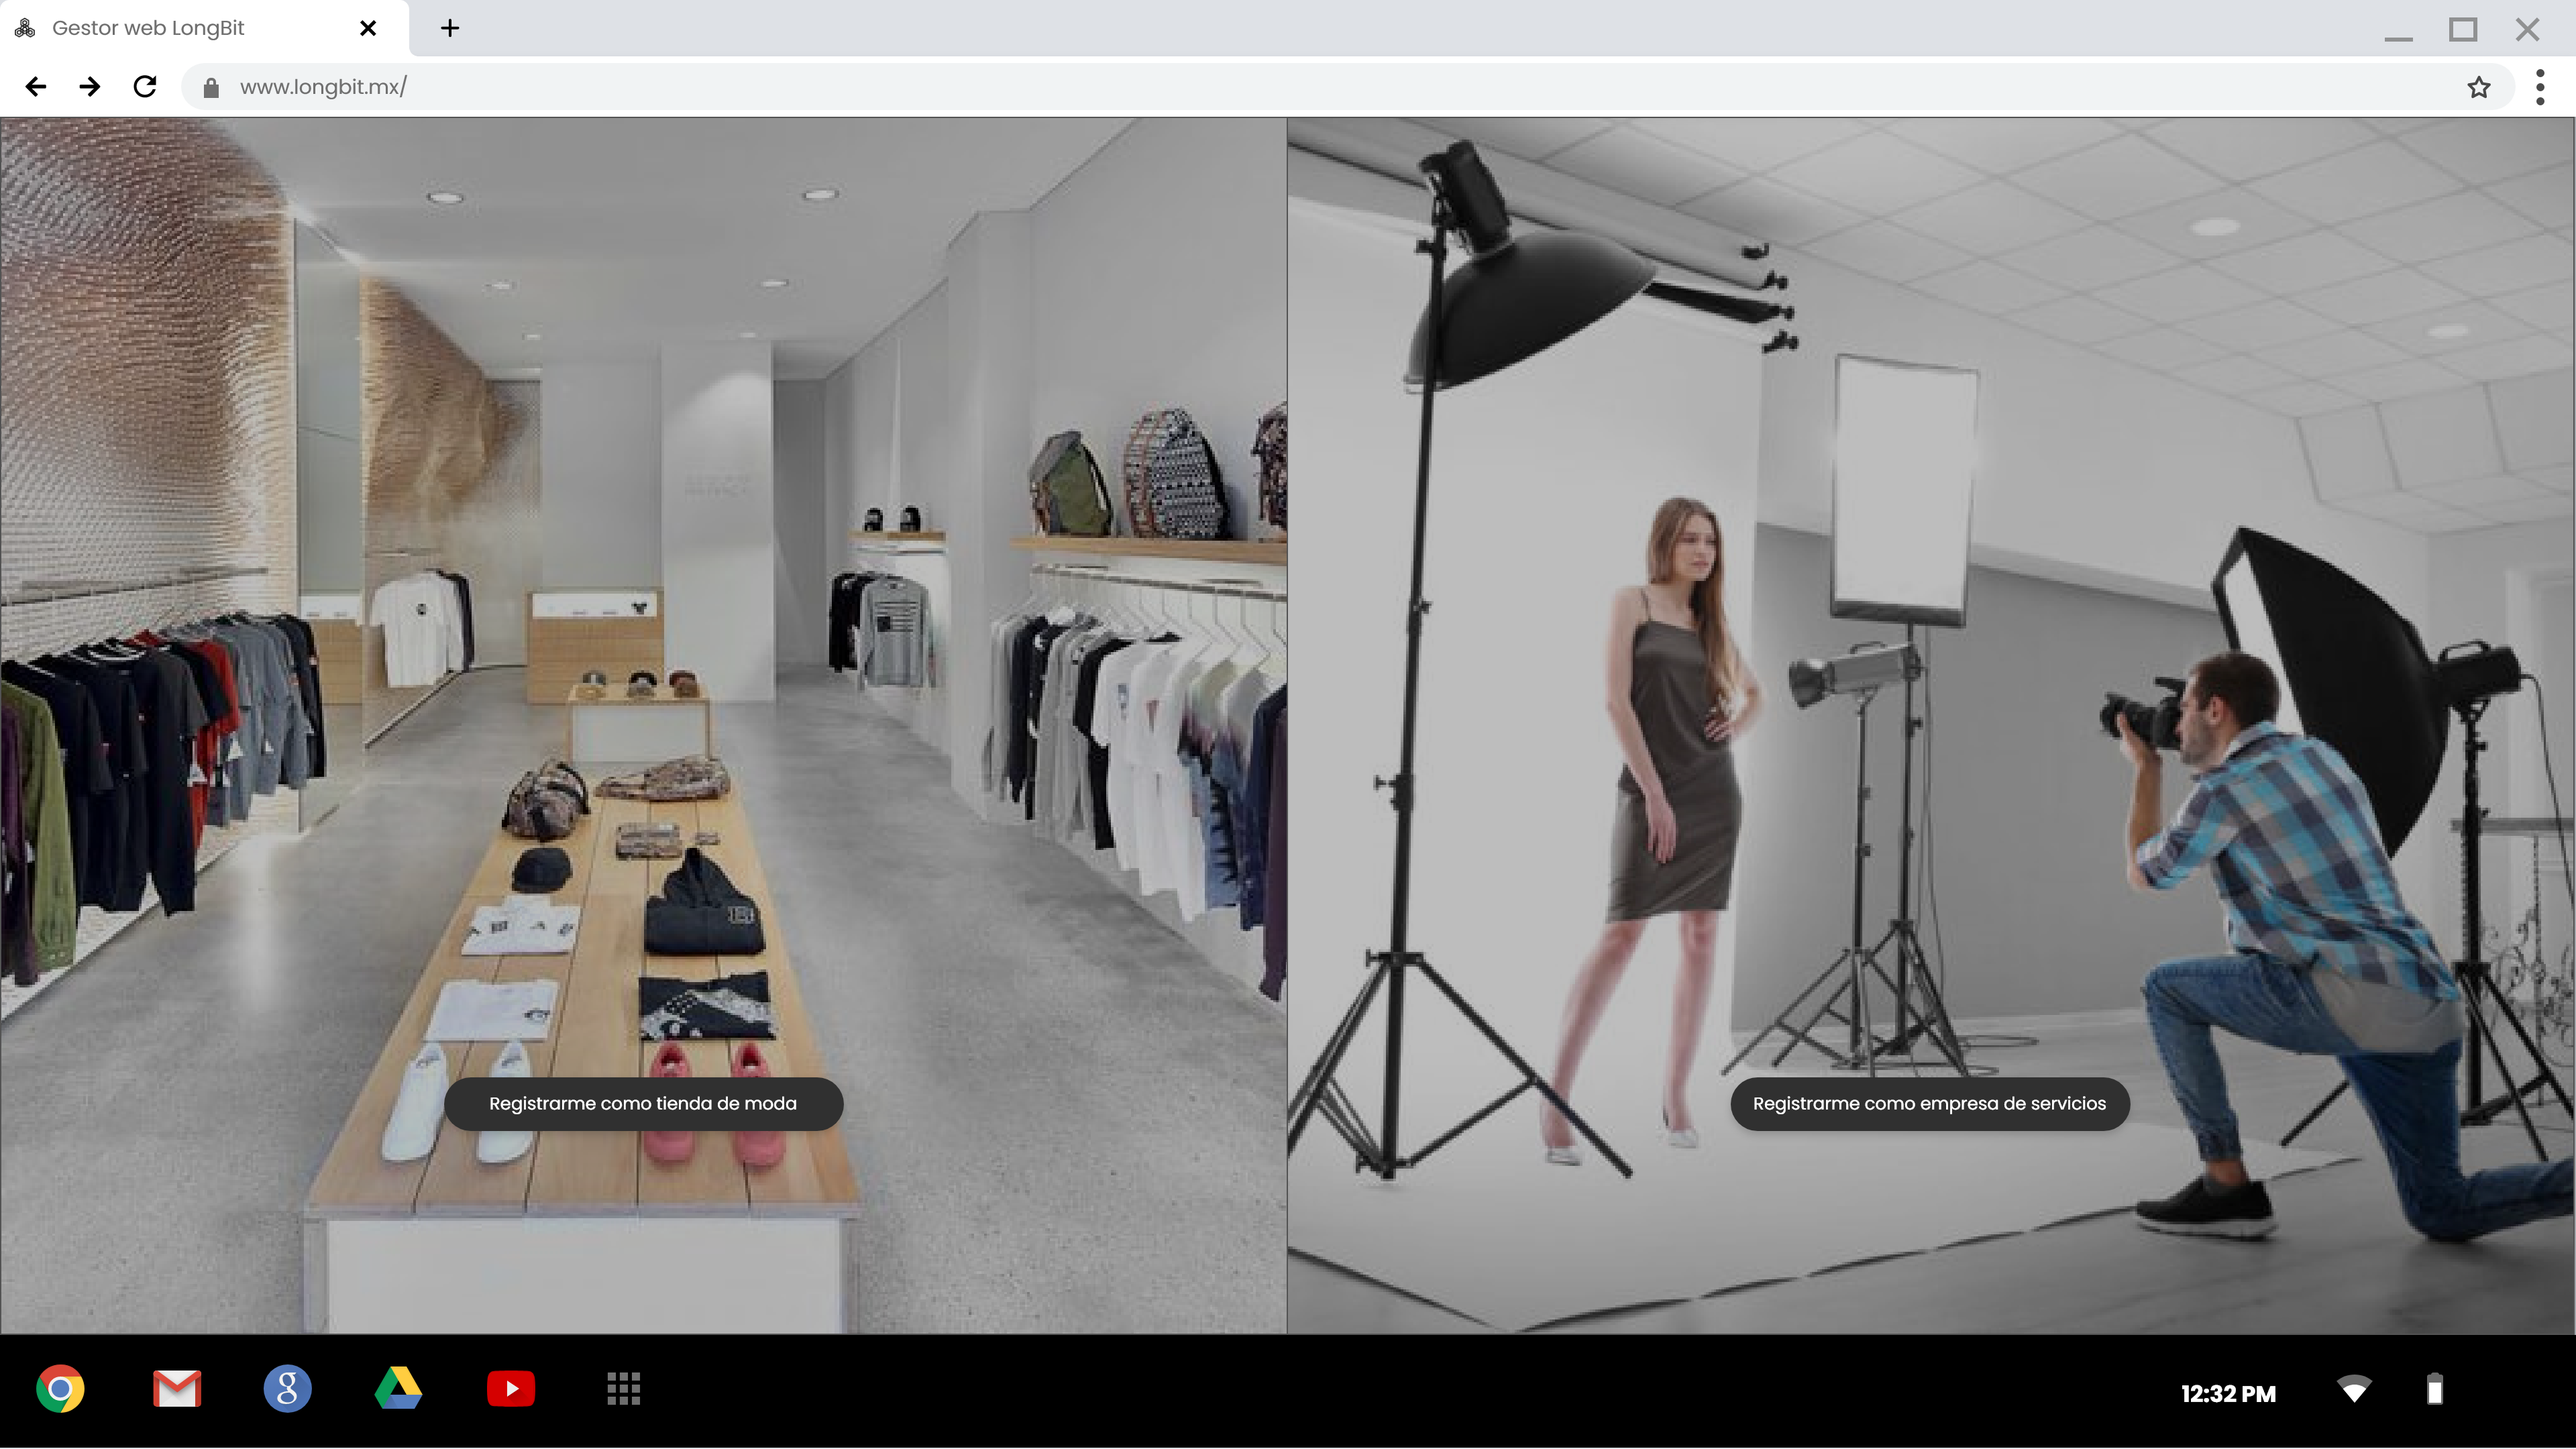
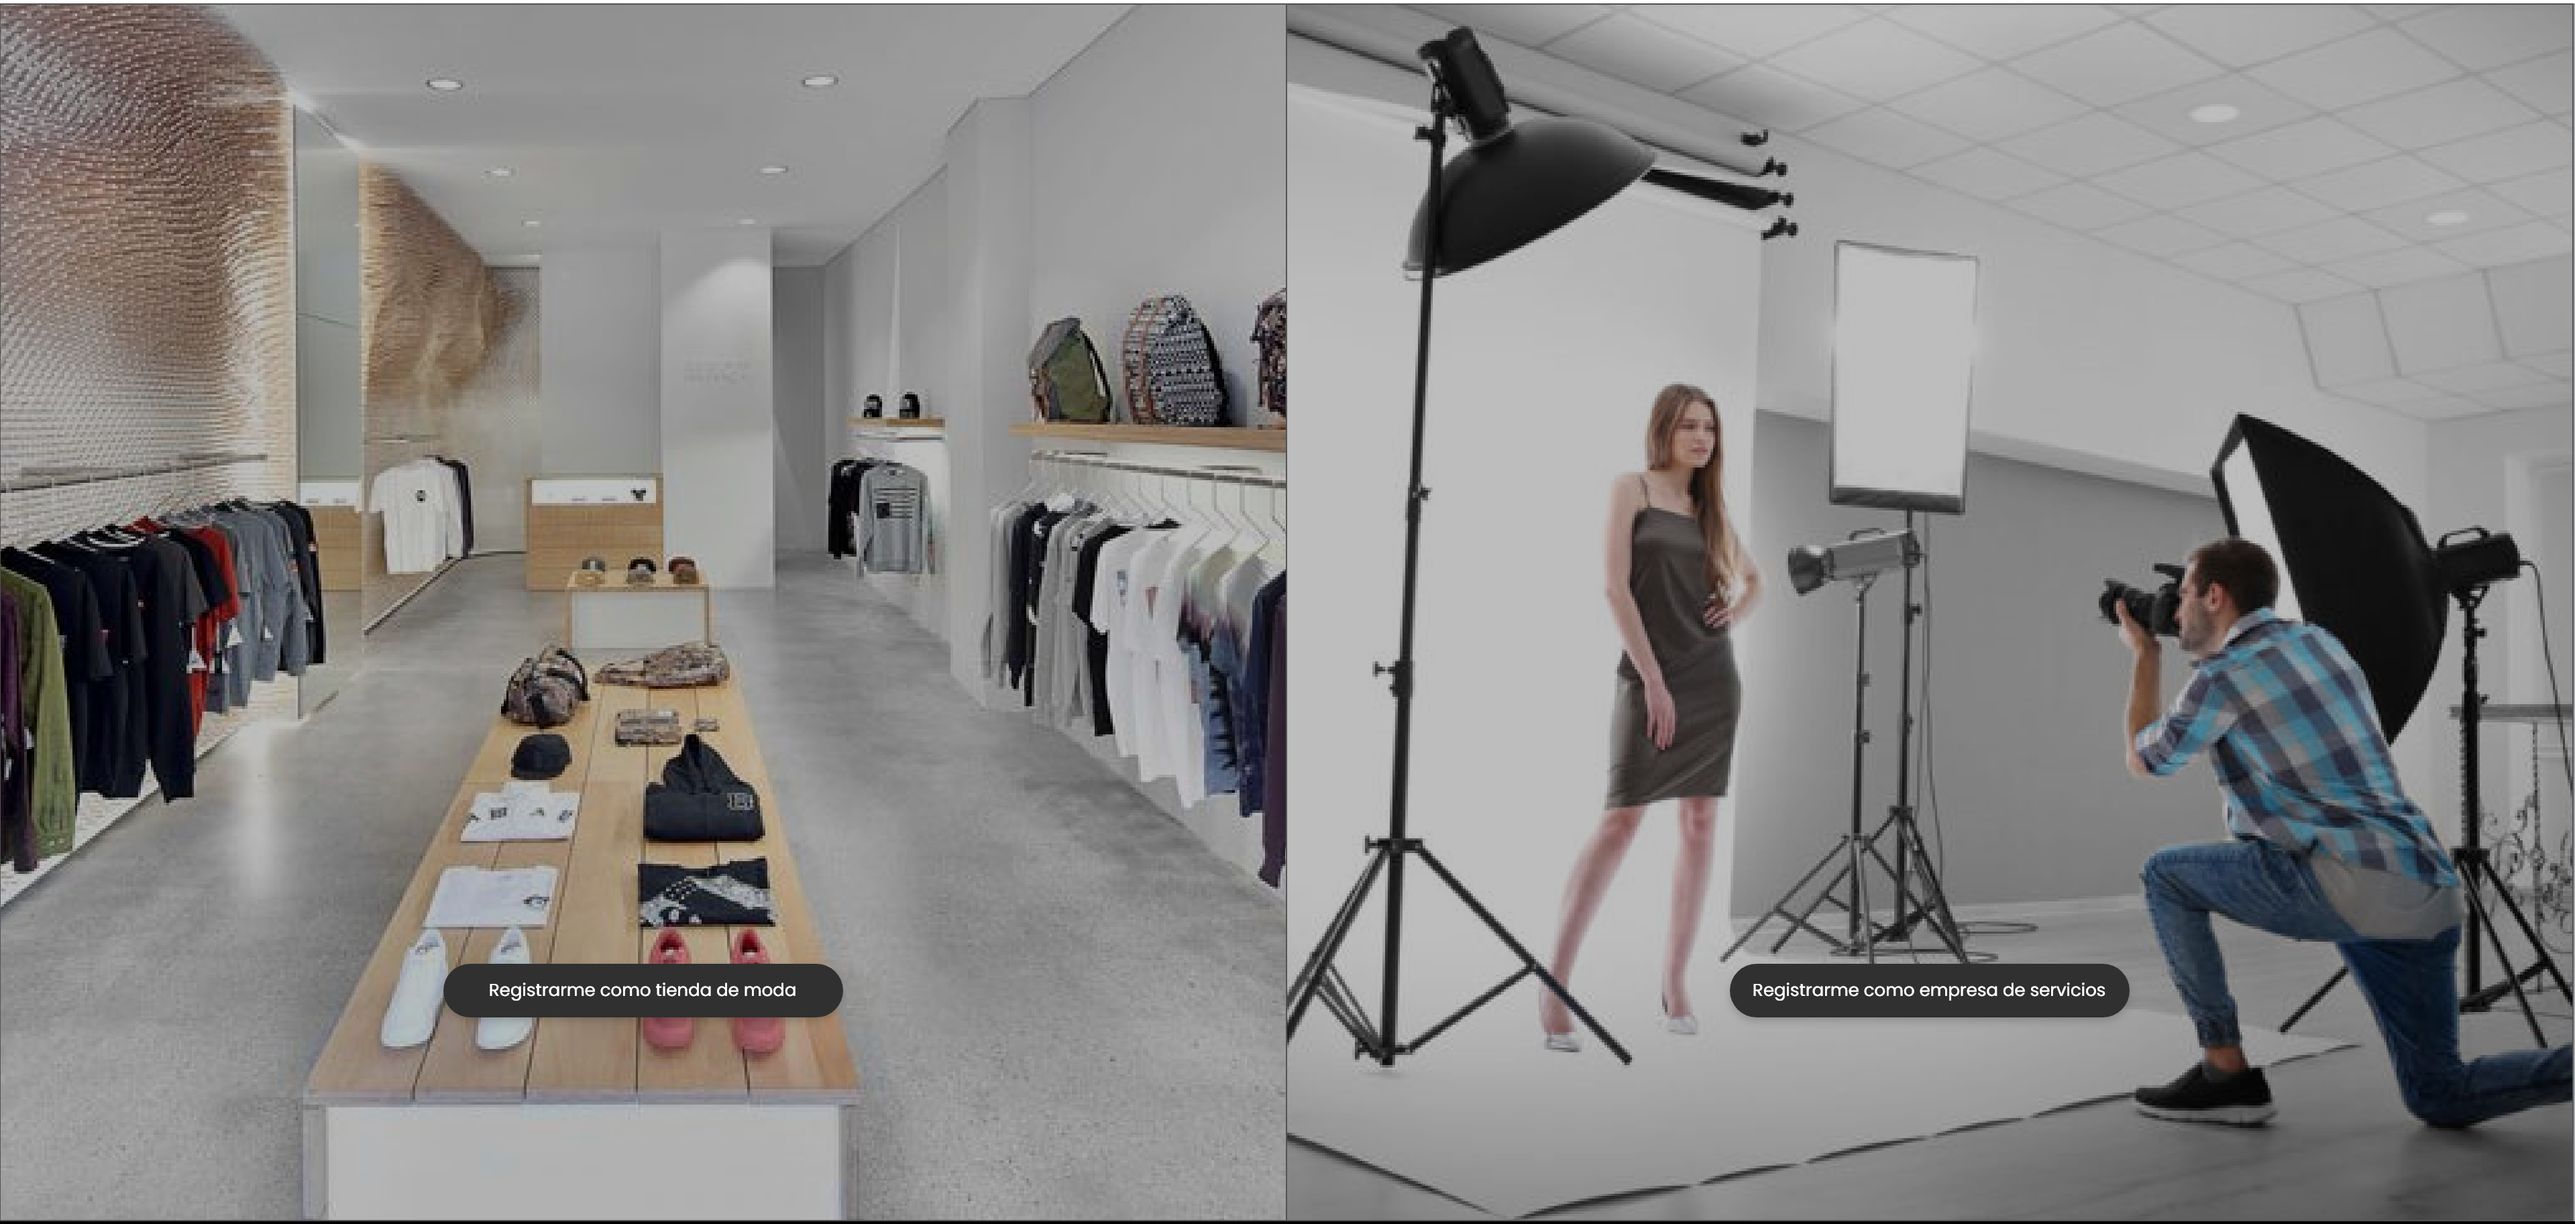
Add files via upload

diff --git a/registro/register.html b/registro/register.html
@@ -1,0 +1,99 @@
+<!DOCTYPE html>
+<html lang="es-MX" dir="ltr">
+    <head>
+        <title>Registro</title>
+        <meta http-equiv="Content-Type" content="text/html; charset=utf-8" />
+		<body>
+
+		<link rel="stylesheet" href="bootstrap/css/bootstrap.min.css" type="text/css" />
+<link rel="stylesheet" href="/registro/css.css">
+        </head>
+<link href="//maxcdn.bootstrapcdn.com/bootstrap/3.3.0/css/bootstrap.min.css" rel="stylesheet" id="bootstrap-css">
+
+<script src="//maxcdn.bootstrapcdn.com/bootstrap/3.3.0/js/bootstrap.min.js"></script>
+<script src="//code.jquery.com/jquery-1.11.1.min.js"></script>
+
+<!------ Include the above in your HEAD tag ---------->
+
+<div class="container">
+	<div class="row">
+		<div class="col-md-6 col-md-offset-3">
+			<div class="panel panel-login">
+				<div class="panel-heading">
+					<div class="row">
+						<div class="col-xs-6">
+							<a href="#" class="active" id="login-form-link"></a>
+						</div>
+						<div class="col-xs-6">
+							<a href="#" id="register-form-link"></a>
+						</div>
+					</div>
+					<hr>
+				</div>					<div class="panel-body">
+						<div class="row">
+							<div class="col-lg-12">
+								<form id="login-form" method="post" role="form" style="display: block;">
+									<div class="form-group">
+										<label for="email">Correo electrónico: </label>
+										<input type="email" class="form-control" id="email" placeholder="ernesto14@longbit.mx">
+									  </div>
+									<div class="form-group">
+										<label for="password">Contraseña </label>
+										<input id="password-field" type="password" class="form-control" name="password" value="" tabindex="2" placeholder="Contraseña">
+										
+										<span toggle="#password-field" class="fa fa-fw fa-eye field-icon toggle-password" ></span>	
+									</div>
+									<div class="form-group">
+										<label for="rpassword">Repetir contraseña</label>
+										<input type="rpassword" name="rpassword" id="rpassword" tabindex="2" class="form-control" placeholder="Repetir contraseña">
+									</div>
+									<div class="form-group text-left">
+										<input type="checkbox" tabindex="3" class="" name="remember" id="remember">
+										<label for="remember">Mantener sesión iniciada</label>
+									</div>
+									<div class="text-center"><a href="" tabindex="5" class="forgot-password">Olvidé mi contraseña</a>
+									</div>
+									<br>
+										<div class="form-group">
+										<div class="row">
+											<div class="col-sm-6 col-sm-offset-3">
+												<input type="submit" name="login-submit" id="login-submit" tabindex="4" class="form-control btn btn-login" value="Ingresar">
+											</div>
+										</div>
+									</div>
+									
+								</form>
+								<form id="register-form" action="" method="post" role="form" style="display: none;">
+									<div class="form-group">
+										<input type="text" name="username" id="username" tabindex="1" class="form-control" placeholder="Usuario" value="">
+									</div>
+									<div class="form-group">
+										<input type="email" name="email" id="email" tabindex="1" class="form-control" placeholder="Correo electronico" value="">
+									</div>
+									<div class="form-group">
+										<input type="password" name="password" id="password" tabindex="2" class="form-control" placeholder="Contraseña">
+									</div>
+									<div class="form-group">
+										<input type="password" name="confirm-password" id="confirm-password" tabindex="2" class="form-control" placeholder="Confirmar contraseña">
+									</div>
+									<div class="form-group">
+										<div class="row">
+											<div class="col-sm-6 col-sm-offset-3">
+												<input type="submit" name="register-submit" id="register-submit" tabindex="4" class="form-control btn btn-register" value="Crear cuenta">
+											</div>
+										</div>
+									</div>
+								</form>
+							</div>
+						</div>
+					</div>
+				</div>
+			</div>
+		</div>
+	</div>
+	<script src="/registro/js.js"></script>
+	<script src="bootstrap/js/bootstrap.min.js"></script>
+<script src="assets/jquery-1.11.2.min.js"></script>
+<script src="assets/jquery.validate.min.js"></script>
+</body>
+</html>

diff --git a/registro/css.css b/registro/css.css
@@ -1,0 +1,112 @@
+body {
+    padding-top: 90px;
+    background-color: black;
+}
+.panel-login {
+	border-color: #ccc;
+	-webkit-box-shadow: 0px 2px 3px 0px rgba(0,0,0,0.2);
+	-moz-box-shadow: 0px 2px 3px 0px rgba(0,0,0,0.2);
+	box-shadow: 0px 2px 3px 0px rgba(0,0,0,0.2);
+}
+.panel-login>.panel-heading {
+	color: #00415d;
+	background-color: #fff;
+	border-color: #fff;
+	text-align:center;
+}
+.panel-login>.panel-heading a{
+	text-decoration: none;
+	color: #666;
+	font-weight: bold;
+	font-size: 15px;
+	-webkit-transition: all 0.1s linear;
+	-moz-transition: all 0.1s linear;
+	transition: all 0.1s linear;
+}
+.panel-login>.panel-heading a.active{
+	color: #029f5b;
+	font-size: 18px;
+}
+.panel-login>.panel-heading hr{
+	margin-top: 10px;
+	margin-bottom: 0px;
+	clear: both;
+	border: 0;
+	height: 1px;
+	background-image: -webkit-linear-gradient(left,rgba(0, 0, 0, 0),rgba(0, 0, 0, 0.15),rgba(0, 0, 0, 0));
+	background-image: -moz-linear-gradient(left,rgba(0,0,0,0),rgba(0,0,0,0.15),rgba(0,0,0,0));
+	background-image: -ms-linear-gradient(left,rgba(0,0,0,0),rgba(0,0,0,0.15),rgba(0,0,0,0));
+	background-image: -o-linear-gradient(left,rgba(0,0,0,0),rgba(0,0,0,0.15),rgba(0,0,0,0));
+}
+.panel-login input[type="text"],.panel-login input[type="email"],.panel-login input[type="password"] {
+	height: 45px;
+	border: 1px solid #ddd;
+	font-size: 16px;
+	-webkit-transition: all 0.1s linear;
+	-moz-transition: all 0.1s linear;
+	transition: all 0.1s linear;
+}
+.panel-login input:hover,
+.panel-login input:focus {
+	outline:none;
+	-webkit-box-shadow: none;
+	-moz-box-shadow: none;
+	box-shadow: none;
+	border-color: #ccc;
+}
+.btn-login {
+	background-color: #59B2E0;
+	outline: none;
+	color: #fff;
+	font-size: 14px;
+	height: auto;
+	font-weight: normal;
+	padding: 14px 0;
+	text-transform: uppercase;
+	border-color: #59B2E6;
+}
+.btn-login:hover,
+.btn-login:focus {
+	color: #fff;
+	background-color: #53A3CD;
+	border-color: #53A3CD;
+}
+.forgot-password {
+	text-decoration: underline;
+	color: #888;
+}
+.forgot-password:hover,
+.forgot-password:focus {
+	text-decoration: underline;
+	color: #666;
+}
+
+.btn-register {
+	background-color: #1CB94E;
+	outline: none;
+	color: #fff;
+	font-size: 14px;
+	height: auto;
+	font-weight: normal;
+	padding: 14px 0;
+	text-transform: uppercase;
+	border-color: #1CB94A;
+}
+.btn-register:hover,
+.btn-register:focus {
+	color: #fff;
+	background-color: #1CA347;
+	border-color: #1CA347;
+}
+.field-icon {
+    float: right;
+    margin-left: -25px;
+    margin-top: -25px;
+    position: relative;
+    z-index: 2;
+  }
+  
+  .container{
+    padding-top:50px;
+    margin: auto;
+  }

diff --git a/registro/js.js b/registro/js.js
@@ -1,0 +1,37 @@
+$(function() {
+
+    $('#login-form-link').click(function(e) {
+		$("#login-form").delay(100).fadeIn(100);
+ 		$("#register-form").fadeOut(100);
+		$('#register-form-link').removeClass('active');
+		$(this).addClass('active');
+		e.preventDefault();
+	});
+	$('#register-form-link').click(function(e) {
+		$("#register-form").delay(100).fadeIn(100);
+ 		$("#login-form").fadeOut(100);
+		$('#login-form-link').removeClass('active');
+		$(this).addClass('active');
+		e.preventDefault();
+    });
+    $(".toggle-password").click(function() {
+        $(this).toggleClass("fa-eye fa-eye-slash");
+        var input = $($(this).attr("toggle"));
+        if (input.attr("type") == "password") {
+          input.attr("type", "text");
+        } else {
+          input.attr("type", "password");
+        }
+     });
+     $(".toggle-password").click(function() {
+
+        $(this).toggleClass("fa-eye fa-eye-slash");
+        var input = $($(this).attr("toggle"));
+        if (input.attr("type") == "password") {
+          input.attr("type", "text");
+        } else {
+          input.attr("type", "password");
+        }
+      });
+
+});

diff --git a/index.html b/index.html
@@ -11,6 +11,8 @@
 
 <!--CONTENIDO--> 
 <main>
+
+    <a href="/imagenes/1 Gestor web Bienvenida.png"><img src="/imagenes/1 Gestor web Bienvenida.png" weight="100"/></a>
     <div>Registrarme como tienda de moda</div>
     <div>Registrarme como tienda de servicios</div>
 </main>

diff --git a/css/css.css b/css/css.css
@@ -1,0 +1,9 @@
+
+@charset "UTF-8";
+
+img {
+    display: block;
+    margin: 0 auto;
+    max-width: 100%;
+    width: 80%;
+  }
